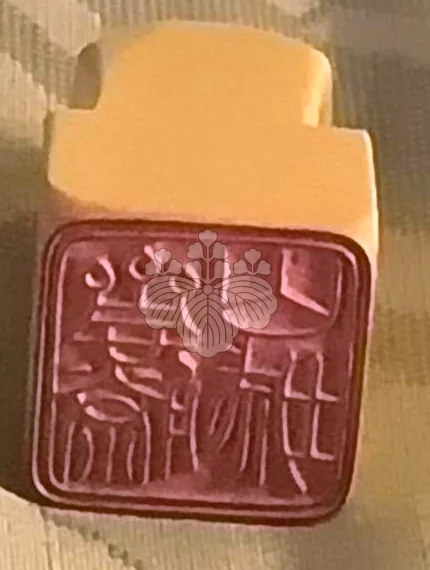
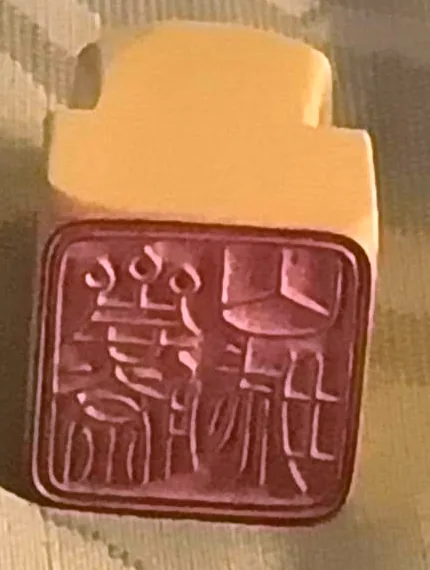
道三公印の透かしを解除、スマホヘッダーを詰める(斎藤道三公菩提所は残す)
- dosan-koin.webpを透かしなしで再変換(430x570等倍)。元画像が小さく不鮮明で
  盗用のおそれが薄いため、判読性を優先。隣の道三公懐中本尊は変更なし
- @media(max-width:768px)でヘッダーを圧縮:
  .header padding 0.5rem→0.35rem、.temple-identity gap 0.75rem→0.4rem、
  ロゴ縮小(1.8rem→1.4rem/1.1rem→0.85rem)、寺号縮小(1.3rem→1.05rem/0.8rem→0.65rem)、
  .temple-subnameのline-height(body由来の1.8)を1.2に、margin-topを0.15rem→0.05rem
- 480px以下で.temple-sango/.temple-jigoを再度拡大していた古い上書きを削除
  (768px時の縮小値と衝突し、320/375pxだけ高さが戻ってしまっていた)
- --header-h(768px以下)を75px→55pxに更新(実測55.19pxに合わせる)

Changed region(s): [[0.3023, 0.3877, 0.6651, 0.6263]]

diff --git a/style.css b/style.css
@@ -213,16 +213,20 @@ body {
 
 @media (max-width: 768px) {
     .header {
-        padding: 0.5rem 0;
+        padding: 0.35rem 0;
+    }
+
+    .temple-identity {
+        gap: 0.4rem;
     }
 
     .temple-logo--gosankiri {
-        width: 1.8rem;
-        height: 1.8rem;
+        width: 1.4rem;
+        height: 1.4rem;
     }
 
     .temple-logo--nitouha {
-        width: 1.1rem;
+        width: 0.85rem;
     }
 
     .temple-crests {
@@ -230,20 +234,23 @@ body {
     }
 
     .temple-jigo {
-        font-size: 1.3rem;
+        font-size: 1.05rem;
     }
 
     .temple-sango {
-        font-size: 0.8rem;
+        font-size: 0.65rem;
     }
 
     .temple-subname {
         font-size: 0.65rem;
+        /* bodyの1.8を継承すると1行だけなのに行間が無駄に空く */
+        line-height: 1.2;
+        margin-top: 0.05rem;
     }
 
     :root {
-        /* 閉じた状態のヘッダー実測相当（約75px）に合わせる */
-        --header-h: 75px;
+        /* 閉じた状態のヘッダー実測値（Playwrightで320〜768px確認、4幅とも55.19px） */
+        --header-h: 55px;
     }
 
     .nav-button {
@@ -1179,14 +1186,6 @@ body {
 
     .section-title {
         font-size: 1.5rem;
-    }
-
-    .temple-sango {
-        font-size: 0.85rem;
-    }
-
-    .temple-jigo {
-        font-size: 1.35rem;
     }
 }
 
